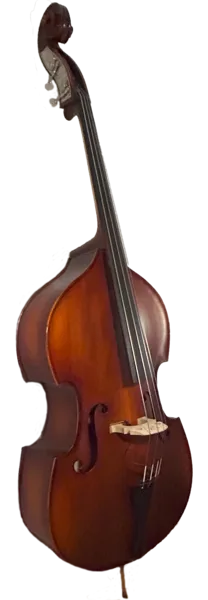
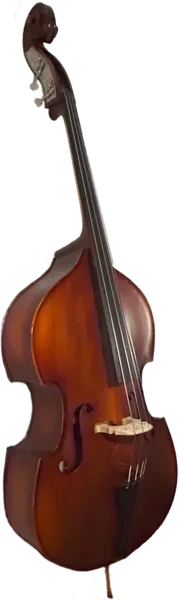
Restyle the gear page around clean product photos
Every gear photo now has a transparent background and no empty margin.
Ten had a flat grey baked in, which the page hid behind a mauve-grey box.
The cards are charcoal with the photo on a neutral grey. The upright gets
a two-row portrait card, and the Lakland and P Bass have new photos.

diff --git a/frontend/pages/gear.vue b/frontend/pages/gear.vue
@@ -30,9 +30,13 @@
       <div class="container">
         <h2 class="gear-section-title">{{ section.label }}</h2>
 
-        <div v-if="section.feature" class="row g-4">
-          <div v-for="item in section.items" :key="item.name" class="col-12 col-md-6">
-            <article class="bass-card on-light">
+        <div v-if="section.feature" class="bass-grid">
+          <div
+            v-for="item in section.items"
+            :key="item.name"
+            :class="{ 'bass-portrait': item.portrait }"
+          >
+            <article class="bass-card">
               <img :src="item.image" :alt="item.name" class="bass-image" loading="lazy" decoding="async" />
               <div class="bass-body">
                 <h3 class="bass-name">{{ item.name }}</h3>
@@ -44,7 +48,7 @@
 
         <div v-else class="row g-3">
           <div v-for="item in section.items" :key="item.name" class="col-12 col-md-6">
-            <article class="gear-item on-light">
+            <article class="gear-item">
               <img :src="item.image" :alt="item.name" class="gear-item-image" loading="lazy" decoding="async" />
               <div>
                 <!-- The kind, only where a section mixes kinds. -->
@@ -136,28 +140,76 @@ useSeo({
   margin-bottom: 1.75rem;
 }
 
-/* The product photos carry this grey in their own backgrounds, so the image
-   boxes match it to hide the letterboxing around contain-fit images. */
+/* Charcoal cards with the photo on a light neutral grey: a plain backdrop
+   that neither tints the gear nor fights the Daphne page. Every product photo
+   has a transparent background so it sits straight on this; a new photo needs
+   one too, or it shows up as a box. The padding keeps the gear clear of the
+   edges. */
+.gear-section {
+  --gear-backdrop: #DEDCD8;
+}
+
 .bass-image,
 .gear-item-image {
   object-fit: contain;
-  background-color: var(--secondary);
+  background-color: var(--gear-backdrop);
 }
 
 /* ---- Basses: large ---- */
+.bass-grid {
+  display: grid;
+  grid-template-columns: 1fr;
+  gap: 1.5rem;
+}
+
+/* The upright takes the right column for two rows, beside the J and the
+   Mustang, so its tall photo gets a tall card and five basses fill the grid
+   with no card left on its own. Pinned to row 2: built for one portrait
+   bass, and a second would stack below it. On phones it is one card in a
+   single column, given a fixed height. */
+.bass-portrait .bass-image {
+  height: 26rem;
+  padding: 2rem;
+}
+
+@media (min-width: 768px) {
+  .bass-grid {
+    grid-template-columns: 1fr 1fr;
+  }
+
+  .bass-portrait {
+    grid-column: 2;
+    grid-row: 2 / span 2;
+  }
+
+  /* Fills whatever height the two cards beside it set. A zero basis keeps
+     the 600 px photo from deciding the row height and stretching them. */
+  .bass-portrait .bass-image {
+    flex: 1 1 0;
+    height: 0;
+    min-height: 0;
+  }
+
+  /* Only the photo grows; the text stays at its natural height. */
+  .bass-portrait .bass-body {
+    flex: 0 0 auto;
+  }
+}
+
 .bass-card {
   display: flex;
   flex-direction: column;
   height: 100%;
   overflow: hidden;
   border-radius: var(--radius-lg);
-  background-color: var(--card);
+  background-color: var(--charcoal);
   box-shadow: 0 10px 30px rgba(0, 0, 0, 0.25);
 }
 
 .bass-image {
   width: 100%;
   height: clamp(12rem, 22vw, 16rem);
+  padding: 1.5rem 2rem;
 }
 
 .bass-body {
@@ -175,7 +227,7 @@ useSeo({
 .bass-copy {
   flex: 1;
   margin-bottom: 0;
-  color: var(--text-color-dark);
+  color: var(--fg-soft);
 }
 
 /* ---- Everything else: compact ---- */
@@ -187,13 +239,14 @@ useSeo({
   overflow: hidden;
   padding-right: 1.1rem;
   border-radius: var(--radius-md);
-  background-color: var(--card);
+  background-color: var(--charcoal);
 }
 
 .gear-item-image {
   flex: 0 0 auto;
   width: 7.5rem;
   height: 6.5rem;
+  padding: 0.6rem;
 }
 
 .gear-item-kind {
@@ -215,7 +268,7 @@ useSeo({
   margin: 0;
   font-size: 0.9rem;
   line-height: 1.5;
-  color: var(--text-color-dark);
+  color: var(--fg-soft);
 }
 
 @media (max-width: 575.98px) {

diff --git a/frontend/data/gear.ts b/frontend/data/gear.ts
@@ -12,6 +12,11 @@ export interface GearItem {
   /** Path under public/, e.g. '/img/gear/Fender-P-Bass.webp'. */
   image: string;
   description: string;
+  /**
+   * A tall photo, like the upright. On /gear it gets a card two rows tall
+   * instead of a wide one, which would shrink it to a sliver.
+   */
+  portrait?: boolean;
 }
 
 // `as const` so GearName below is a union of the literal names rather than
@@ -21,7 +26,7 @@ const gearList = [
   { name: 'Fender P Bass', type: 'Bass', image: '/img/gear/Fender-P-Bass.webp', description: 'Classic Precision Bass tone with the reliability to match.' },
   { name: 'Fender Jazz Bass', type: 'Bass', image: '/img/gear/Fender-J-Bass.webp', description: 'My first bass, used for everything from jazz gigs to rock covers.' },
   { name: 'Fender JMJ Mustang Bass', type: 'Bass', image: '/img/gear/Fender-JMJ-Mustang-Bass.webp', description: 'Black short-scale Mustang with a single split-coil pickup. Punchy, focused, and a little gritty, great for indie and garage tones.' },
-  { name: 'Knilling Bucharest 1308T', type: 'Bass', image: '/img/gear/Knilling-Upright.webp', description: 'Fully carved upright — go-to for jazz sessions and acoustic sets.' },
+  { name: 'Knilling Bucharest 1308T', type: 'Bass', image: '/img/gear/Knilling-Upright.webp', portrait: true, description: 'Fully carved upright — go-to for jazz sessions and acoustic sets.' },
   { name: 'Markbass Little Mark 3', type: 'Amp', image: '/img/gear/Markbass-Little-Mark-3.webp', description: 'Lightweight, powerful head with a clean, punchy sound.' },
   { name: 'Phil Jones Double 4', type: 'Amp', image: '/img/gear/Phil-Jones-Double-Four.webp', description: 'Small practice amp with a clear, surprisingly big sound.' },
   { name: 'Markbass 4x10', type: 'Cabinet', image: '/img/gear/Markbass-4x10.webp', description: 'Big, punchy lows and clean mids for live shows.' },

diff --git a/frontend/styles/main.css b/frontend/styles/main.css
@@ -41,7 +41,7 @@
   --text-color-dark: rgba(0, 0, 0, 0.7);
 
   --bg-black: #111214;           /* video letterboxing */
-  --secondary: #8A8588;          /* gear photo backdrops, baked into the images */
+  --secondary: #8A8588;          /* Bootstrap's muted text colour */
 
   /* The dark card shared by the events list and each event's page. Deep
      Daphne rather than charcoal so it still shows on a charcoal band. */
